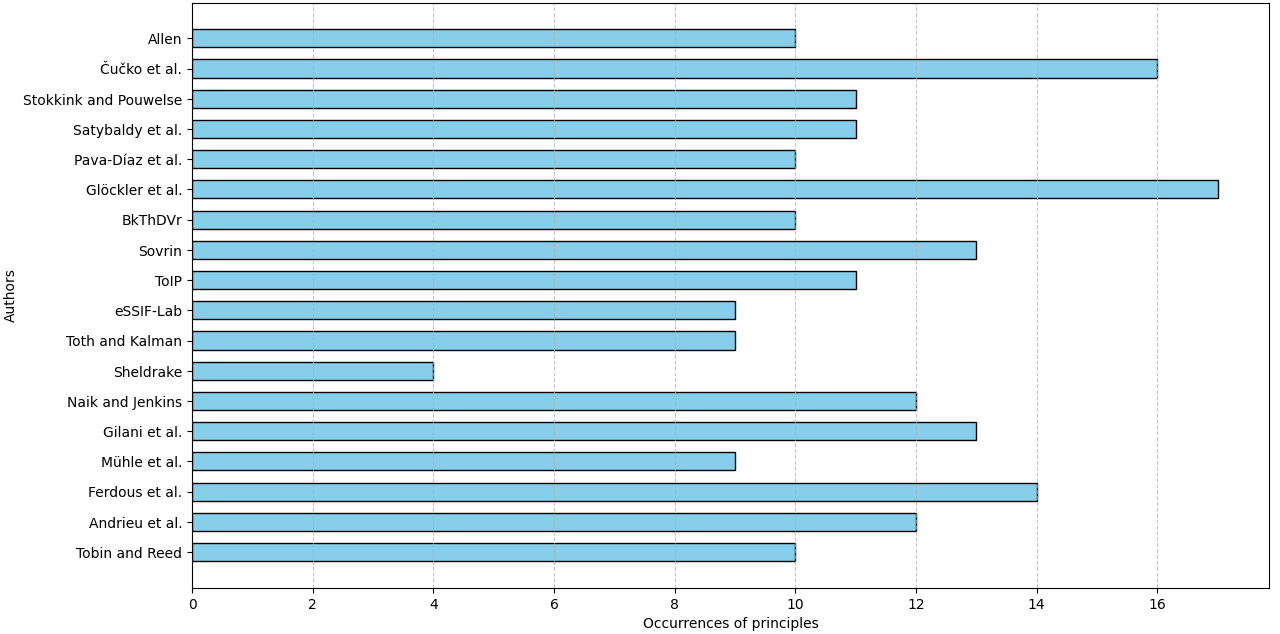
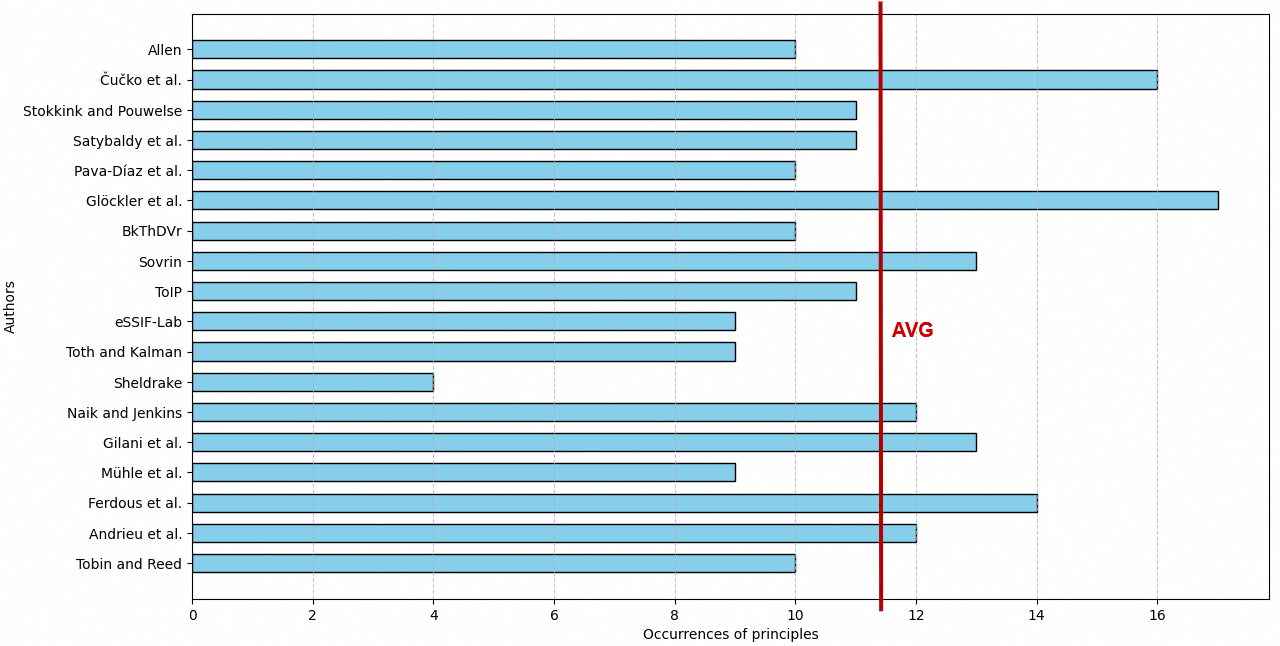
.

diff --git a/definition/program/recording_of_principles/Occurrences_principles.py b/definition/program/recording_of_principles/Occurrences_principles.py
@@ -40,3 +40,6 @@ plt.gca().invert_yaxis()
 
 plt.grid(axis='x', linestyle='--', alpha=0.7)
 plt.show()
+
+media_occurrences = np.mean(sum_values)
+print(f"Media delle occorrenze dei principi per autore: {media_occurrences:.2f}")

diff --git a/definition/Definition.md b/definition/Definition.md
@@ -110,6 +110,11 @@ Some authors address a broad range of principles, demonstrating a comprehensive 
 ![Category frequency](/definition/images/principles_selection/Bubble.png)
 *Figure 5: The distribution of principles and authors.*
 
+We calculate entropy as a measure of the degree of uncertainty or disorder in the distribution of principles among the authors [^pal] and consider principles with an entropy higher than 0.5, meaning they are fairly or significantly distributed across authors.
+
+![Entropy](/definition/images/principles_selection/)
+*Figure 6: The distribution of principles and authors.*
+
 ### 1.3.4 Categorization
 A category is useful to "*illuminate a relationship between the subjects and objects of knowledge.*"[^mahalakshmi] In our case, the subjects and the objects are the principles and the SSI field respectively. However, a category is featured by attributes or specific properties that must be described at priori. In our case, past studies categorized the SSI principles as reported in the [Related Works](#12-related-works), but they missed to provide criteria for their content analysis. For this reason, our first goal is to analyze past studies to see if aggregated results may exhibit similarities of behaviours from authors, and categorizations.[^rai] Once done it, we aim to extract common features and categorize principles based on these features. Instrumental for this analysis is the creation of [Table 4](https://cristianlepore.github.io/Self-Sovereign-Identity/definition/tables/principles_classification/Principles_classification1), which outlines the categories from our literature review.
 
@@ -700,3 +705,5 @@ The breakdown of responses to the 20 questions in the questionnaire.
 [^robinson]: Robinson, Joan. "What are the questions?." What are the Questions and Other Essays. Routledge, 2016. 2-32.
 
 [^Ivchenko]: Ivchenko, G. I., and S. A. Honov. "On the jaccard similarity test." Journal of Mathematical Sciences 88 (1998): 789-794.
+
+[^pal]: Pal, Nikhil R., and Sankar K. Pal. "Entropy: A new definition and its applications." IEEE transactions on systems, man, and cybernetics 21.5 (1991): 1260-1270.
